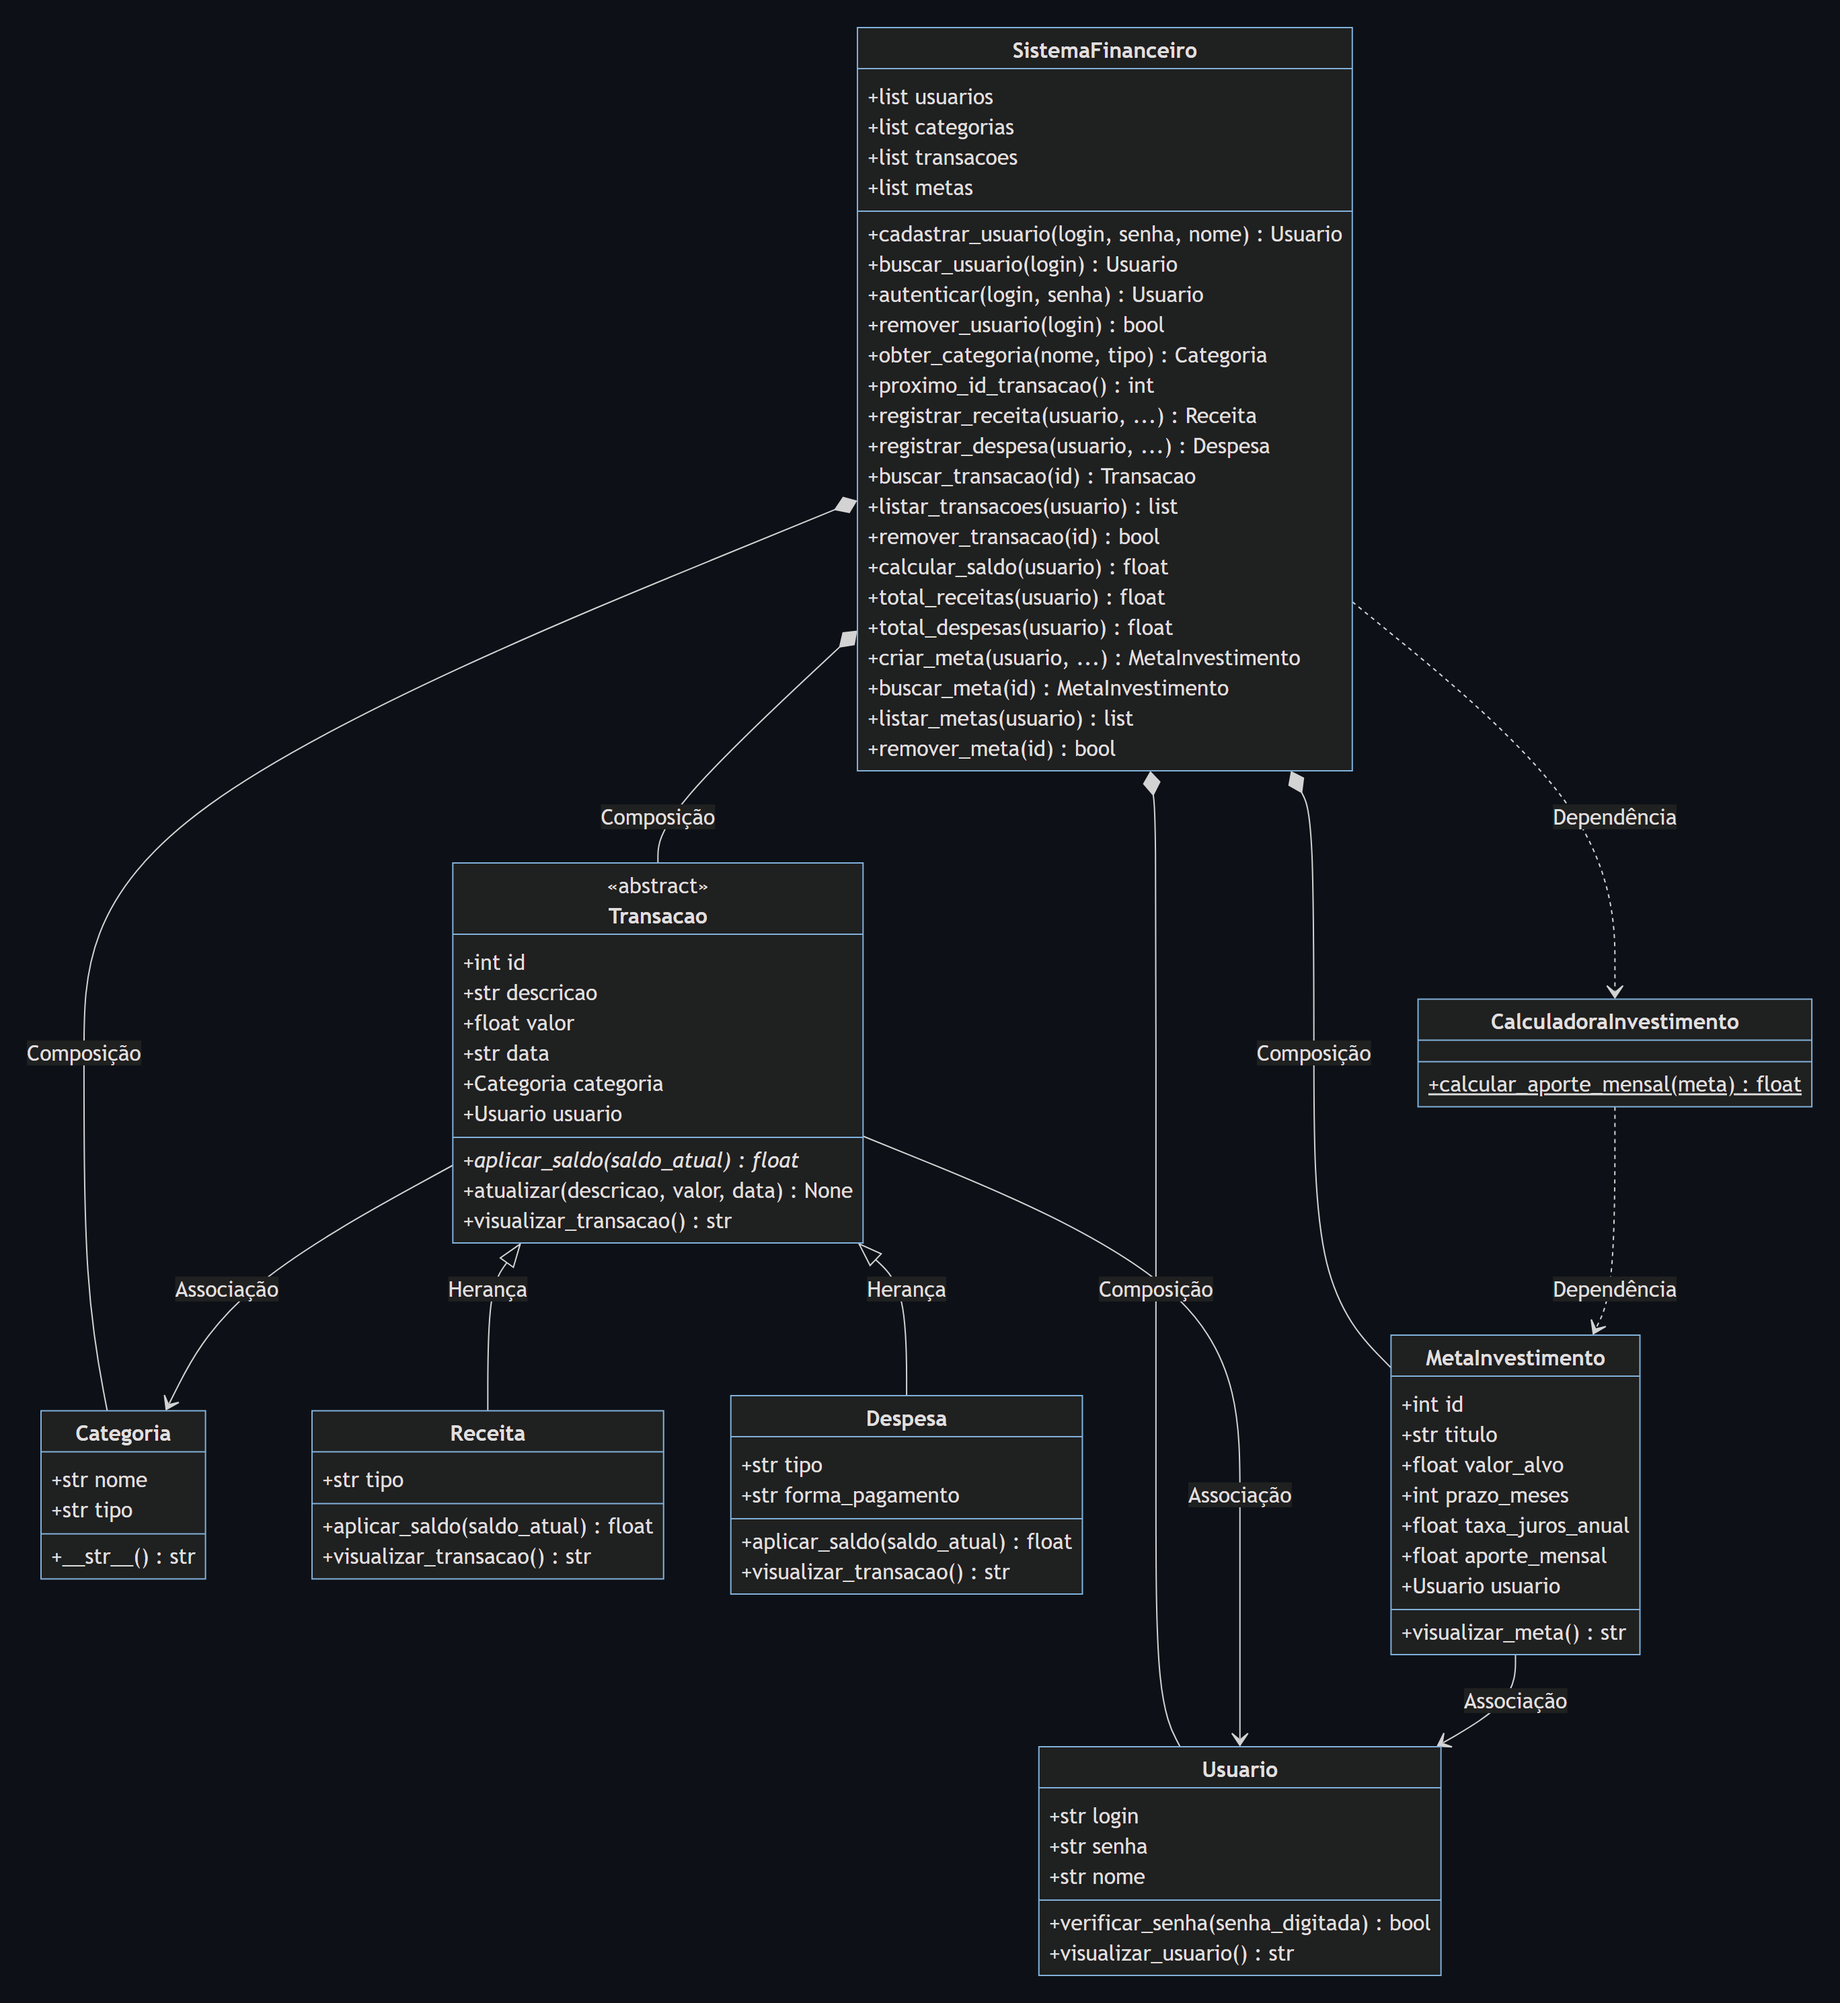
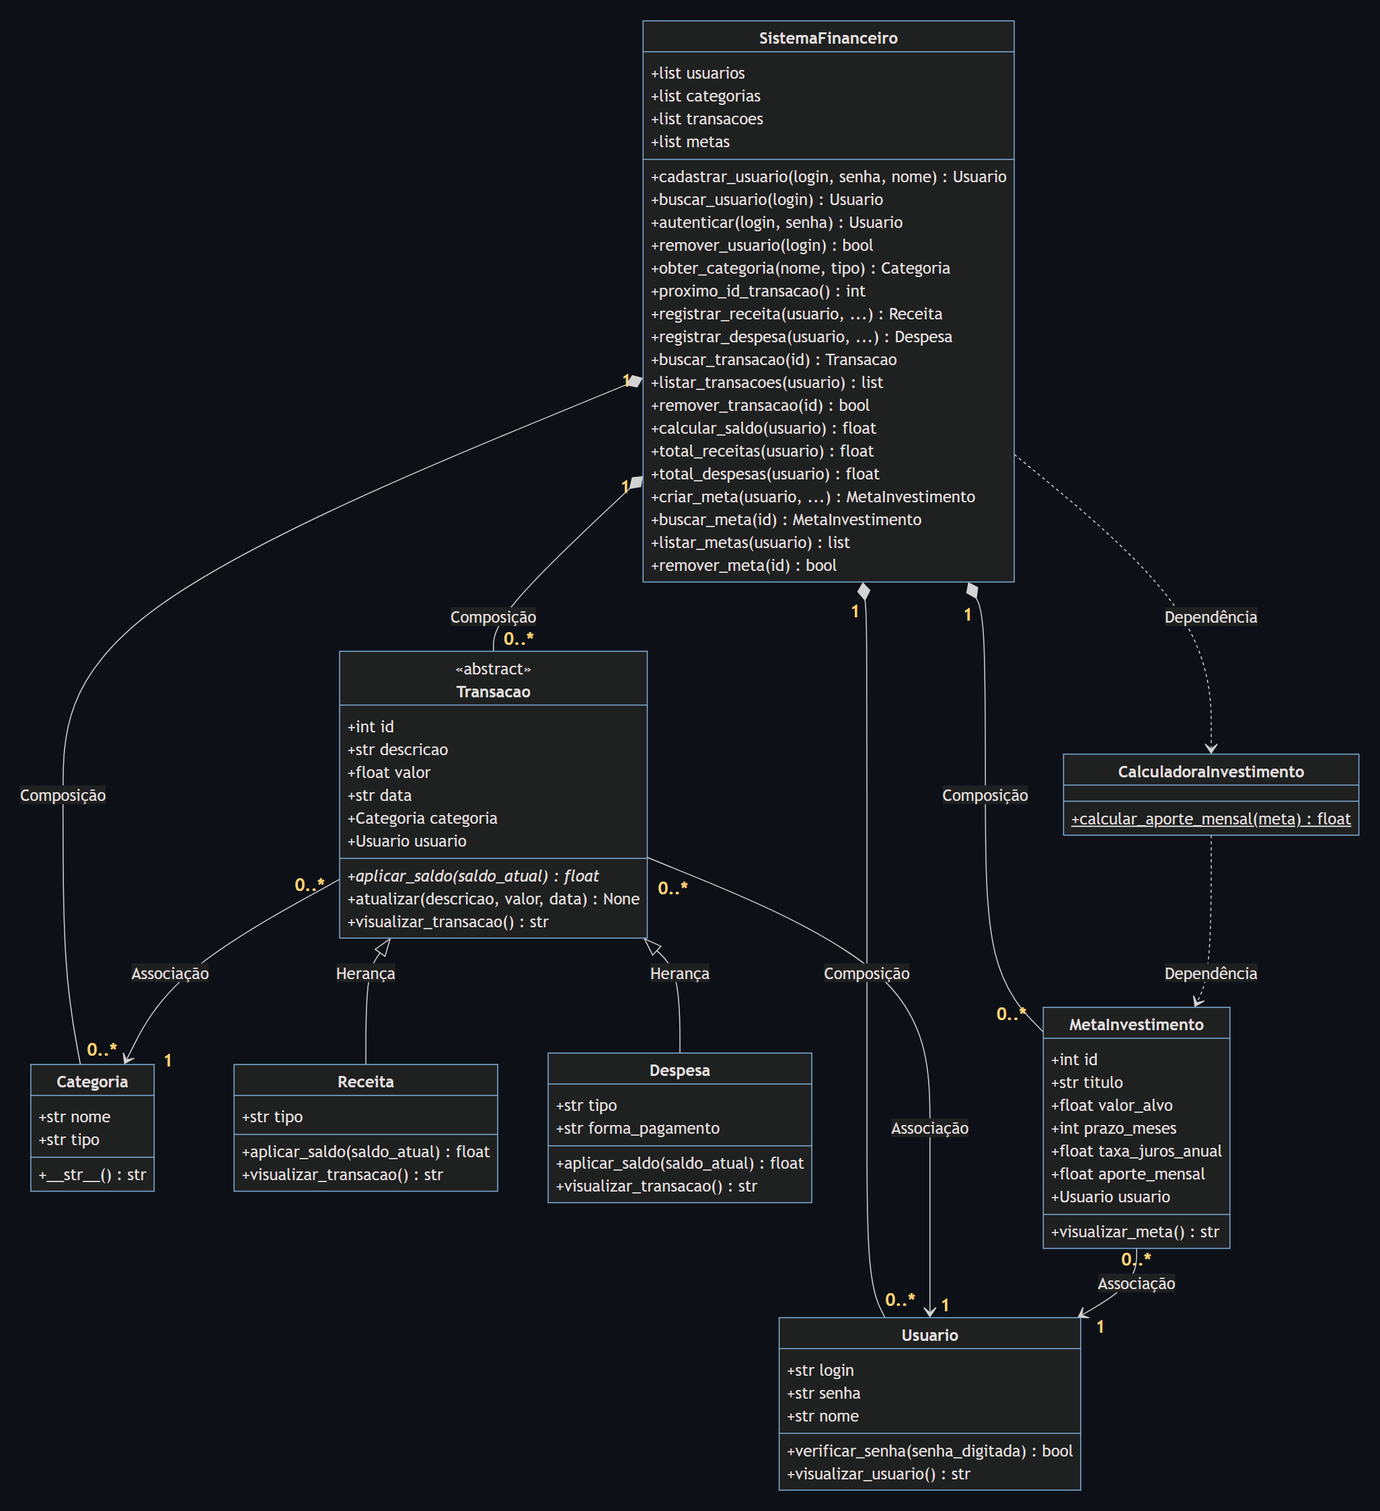
Pasta package e multiplicidade no UML

diff --git a/package/sistema.py b/package/sistema.py
@@ -1,110 +1,7 @@
-from abc import ABC, abstractmethod
-
-
-class Usuario:
-    def __init__(self, login, senha, nome=""):
-        self.login = login
-        self.senha = senha
-        self.nome = nome or login.title()
-
-    def verificar_senha(self, senha_digitada):
-        return self.senha == senha_digitada
-
-    def visualizar_usuario(self):
-        return f"Usuário: {self.nome} (Login: {self.login})"
-
-
-class Categoria:
-    def __init__(self, nome, tipo="Geral"):
-        self.nome = nome.strip().title()
-        self.tipo = tipo
-
-    def __str__(self):
-        return self.nome
-
-
-# Classe abstrata: não pode ser instanciada, só Receita e Despesa
-class Transacao(ABC):
-    def __init__(self, id_transacao, descricao, valor, data, categoria, usuario):
-        if valor <= 0:
-            raise ValueError("O valor deve ser maior que zero.")
-        self.id = id_transacao
-        self.descricao = descricao
-        self.valor = float(valor)
-        self.data = data
-        self.categoria = categoria  # associação
-        self.usuario = usuario      # associação
-
-    @abstractmethod
-    def aplicar_saldo(self, saldo_atual):
-        pass
-
-    def atualizar(self, descricao, valor, data):
-        if valor <= 0:
-            raise ValueError("O valor deve ser maior que zero.")
-        self.descricao = descricao
-        self.valor = float(valor)
-        self.data = data
-
-    def visualizar_transacao(self):
-        return f"[{self.data}] #{self.id} {self.descricao} - R${self.valor:.2f} ({self.categoria})"
-
-
-# Herança + polimorfismo: cada filha aplica o saldo do seu jeito
-class Receita(Transacao):
-    def __init__(self, id_transacao, descricao, valor, data, categoria, usuario):
-        super().__init__(id_transacao, descricao, valor, data, categoria, usuario)
-        self.tipo = "Receita"
-
-    def aplicar_saldo(self, saldo_atual):
-        return saldo_atual + self.valor
-
-    def visualizar_transacao(self):
-        return f"[RECEITA] {self.data} | #{self.id} {self.descricao} | +R${self.valor:.2f} | {self.categoria}"
-
-
-class Despesa(Transacao):
-    def __init__(self, id_transacao, descricao, valor, data, categoria, usuario, forma_pagamento="Dinheiro"):
-        super().__init__(id_transacao, descricao, valor, data, categoria, usuario)
-        self.tipo = "Despesa"
-        self.forma_pagamento = forma_pagamento.title()
-
-    def aplicar_saldo(self, saldo_atual):
-        return saldo_atual - self.valor
-
-    def visualizar_transacao(self):
-        return (f"[DESPESA] {self.data} | #{self.id} {self.descricao} | -R${self.valor:.2f} | "
-                f"{self.categoria} | {self.forma_pagamento}")
-
-
-class MetaInvestimento:
-    def __init__(self, id_meta, titulo, valor_alvo, prazo_meses, taxa_juros_anual, usuario):
-        self.id = id_meta
-        self.titulo = titulo
-        self.valor_alvo = valor_alvo
-        self.prazo_meses = prazo_meses
-        self.taxa_juros_anual = taxa_juros_anual
-        self.usuario = usuario  # associação
-        self.aporte_mensal = 0.0
-
-    def visualizar_meta(self):
-        return (f"Meta #{self.id}: {self.titulo} - R${self.valor_alvo:.2f} em {self.prazo_meses} meses "
-                f"({self.taxa_juros_anual}% ao ano) | Aporte: R${self.aporte_mensal:.2f}/mês")
-
-
-# Dependência: só recebe a meta como parâmetro, não guarda nada
-class CalculadoraInvestimento:
-    @staticmethod
-    def calcular_aporte_mensal(meta):
-        # Juros compostos: aporte = valor_alvo * i / ((1 + i)^n - 1)
-        taxa_mensal = meta.taxa_juros_anual / 100 / 12
-        n = meta.prazo_meses
-        if taxa_mensal == 0:
-            aporte = meta.valor_alvo / n
-        else:
-            aporte = meta.valor_alvo * taxa_mensal / ((1 + taxa_mensal) ** n - 1)
-        meta.aporte_mensal = round(aporte, 2)
-        return meta.aporte_mensal
+from package.usuario import Usuario
+from package.categoria import Categoria
+from package.transacao import Receita, Despesa
+from package.investimento import MetaInvestimento, CalculadoraInvestimento
 
 
 # Composição: o sistema cria e é dono dos usuários, categorias, transações e metas

diff --git a/package/transacao.py b/package/transacao.py
@@ -1,0 +1,55 @@
+from abc import ABC, abstractmethod
+
+
+# Classe abstrata: não pode ser instanciada, só Receita e Despesa
+class Transacao(ABC):
+    def __init__(self, id_transacao, descricao, valor, data, categoria, usuario):
+        if valor <= 0:
+            raise ValueError("O valor deve ser maior que zero.")
+        self.id = id_transacao
+        self.descricao = descricao
+        self.valor = float(valor)
+        self.data = data
+        self.categoria = categoria  # associação
+        self.usuario = usuario      # associação
+
+    @abstractmethod
+    def aplicar_saldo(self, saldo_atual):
+        pass
+
+    def atualizar(self, descricao, valor, data):
+        if valor <= 0:
+            raise ValueError("O valor deve ser maior que zero.")
+        self.descricao = descricao
+        self.valor = float(valor)
+        self.data = data
+
+    def visualizar_transacao(self):
+        return f"[{self.data}] #{self.id} {self.descricao} - R${self.valor:.2f} ({self.categoria})"
+
+
+# Herança + polimorfismo: cada filha aplica o saldo do seu jeito
+class Receita(Transacao):
+    def __init__(self, id_transacao, descricao, valor, data, categoria, usuario):
+        super().__init__(id_transacao, descricao, valor, data, categoria, usuario)
+        self.tipo = "Receita"
+
+    def aplicar_saldo(self, saldo_atual):
+        return saldo_atual + self.valor
+
+    def visualizar_transacao(self):
+        return f"[RECEITA] {self.data} | #{self.id} {self.descricao} | +R${self.valor:.2f} | {self.categoria}"
+
+
+class Despesa(Transacao):
+    def __init__(self, id_transacao, descricao, valor, data, categoria, usuario, forma_pagamento="Dinheiro"):
+        super().__init__(id_transacao, descricao, valor, data, categoria, usuario)
+        self.tipo = "Despesa"
+        self.forma_pagamento = forma_pagamento.title()
+
+    def aplicar_saldo(self, saldo_atual):
+        return saldo_atual - self.valor
+
+    def visualizar_transacao(self):
+        return (f"[DESPESA] {self.data} | #{self.id} {self.descricao} | -R${self.valor:.2f} | "
+                f"{self.categoria} | {self.forma_pagamento}")

diff --git a/package/investimento.py b/package/investimento.py
@@ -1,0 +1,28 @@
+class MetaInvestimento:
+    def __init__(self, id_meta, titulo, valor_alvo, prazo_meses, taxa_juros_anual, usuario):
+        self.id = id_meta
+        self.titulo = titulo
+        self.valor_alvo = valor_alvo
+        self.prazo_meses = prazo_meses
+        self.taxa_juros_anual = taxa_juros_anual
+        self.usuario = usuario  # associação
+        self.aporte_mensal = 0.0
+
+    def visualizar_meta(self):
+        return (f"Meta #{self.id}: {self.titulo} - R${self.valor_alvo:.2f} em {self.prazo_meses} meses "
+                f"({self.taxa_juros_anual}% ao ano) | Aporte: R${self.aporte_mensal:.2f}/mês")
+
+
+# Dependência: só recebe a meta como parâmetro, não guarda nada
+class CalculadoraInvestimento:
+    @staticmethod
+    def calcular_aporte_mensal(meta):
+        # Juros compostos: aporte = valor_alvo * i / ((1 + i)^n - 1)
+        taxa_mensal = meta.taxa_juros_anual / 100 / 12
+        n = meta.prazo_meses
+        if taxa_mensal == 0:
+            aporte = meta.valor_alvo / n
+        else:
+            aporte = meta.valor_alvo * taxa_mensal / ((1 + taxa_mensal) ** n - 1)
+        meta.aporte_mensal = round(aporte, 2)
+        return meta.aporte_mensal

diff --git a/Nivel_2/menu.py b/Nivel_2/menu.py
@@ -1,5 +1,9 @@
-from Nivel_1.classes import SistemaFinanceiro
-from Nivel_2.funcoes_menu import *
+from package import SistemaFinanceiro
+from Nivel_2.funcoes_menu import (
+    pausar, cadastrar_usuario, fazer_login, listar_usuarios, excluir_conta,
+    registrar_receita, registrar_despesa, listar_transacoes, editar_transacao, excluir_transacao,
+    criar_meta, simular_meta, listar_metas, excluir_meta,
+)
 
 
 def nao_salvar(sistema):

diff --git a/package/__init__.py b/package/__init__.py
@@ -1,0 +1,7 @@
+# Pacote com as classes do sistema (modelo do Nível 1).
+# Permite importar tudo direto do pacote: from package import SistemaFinanceiro
+from package.usuario import Usuario
+from package.categoria import Categoria
+from package.transacao import Transacao, Receita, Despesa
+from package.investimento import MetaInvestimento, CalculadoraInvestimento
+from package.sistema import SistemaFinanceiro

diff --git a/package/usuario.py b/package/usuario.py
@@ -1,0 +1,11 @@
+class Usuario:
+    def __init__(self, login, senha, nome=""):
+        self.login = login
+        self.senha = senha
+        self.nome = nome or login.title()
+
+    def verificar_senha(self, senha_digitada):
+        return self.senha == senha_digitada
+
+    def visualizar_usuario(self):
+        return f"Usuário: {self.nome} (Login: {self.login})"

diff --git a/Nivel_1/main.py b/Nivel_1/main.py
@@ -1,5 +1,8 @@
-"""Demonstração do Nível 1: mostra cada relação de POO funcionando."""
-from classes import SistemaFinanceiro, Transacao
+"""Demonstração do Nível 1: mostra cada relação de POO funcionando.
+
+Rode a partir da raiz do projeto: python -m Nivel_1.main
+"""
+from package import SistemaFinanceiro, Transacao
 
 sistema = SistemaFinanceiro()
 

diff --git a/Nivel_4/route.py b/Nivel_4/route.py
@@ -1,6 +1,6 @@
 from datetime import datetime
 from flask import Flask, render_template, request, redirect, url_for, flash, session
-from Nivel_1.classes import MetaInvestimento, CalculadoraInvestimento
+from package import MetaInvestimento, CalculadoraInvestimento
 from Nivel_3.dados import carregar_dados, salvar_dados
 
 app = Flask(__name__)

diff --git a/Nivel_1/test_sistema.py b/Nivel_1/test_sistema.py
@@ -1,5 +1,5 @@
 import unittest
-from classes import Usuario, Categoria, Transacao, Receita, Despesa, MetaInvestimento, CalculadoraInvestimento, SistemaFinanceiro
+from package import Usuario, Categoria, Transacao, Receita, Despesa, MetaInvestimento, CalculadoraInvestimento, SistemaFinanceiro
 
 
 class TestClasses(unittest.TestCase):

diff --git a/Nivel_3/dados.py b/Nivel_3/dados.py
@@ -1,6 +1,6 @@
 import json
 import os
-from Nivel_1.classes import SistemaFinanceiro, Usuario, Categoria, Receita, Despesa, MetaInvestimento, CalculadoraInvestimento
+from package import SistemaFinanceiro, Usuario, Categoria, Receita, Despesa, MetaInvestimento, CalculadoraInvestimento
 
 banco_dados = "database.json"
 

diff --git a/package/categoria.py b/package/categoria.py
@@ -1,0 +1,7 @@
+class Categoria:
+    def __init__(self, nome, tipo="Geral"):
+        self.nome = nome.strip().title()
+        self.tipo = tipo
+
+    def __str__(self):
+        return self.nome

diff --git a/Nivel_2/funcoes_menu.py b/Nivel_2/funcoes_menu.py
@@ -1,4 +1,4 @@
-from Nivel_1.classes import MetaInvestimento, CalculadoraInvestimento
+from package import MetaInvestimento, CalculadoraInvestimento
 
 
 def pausar():
